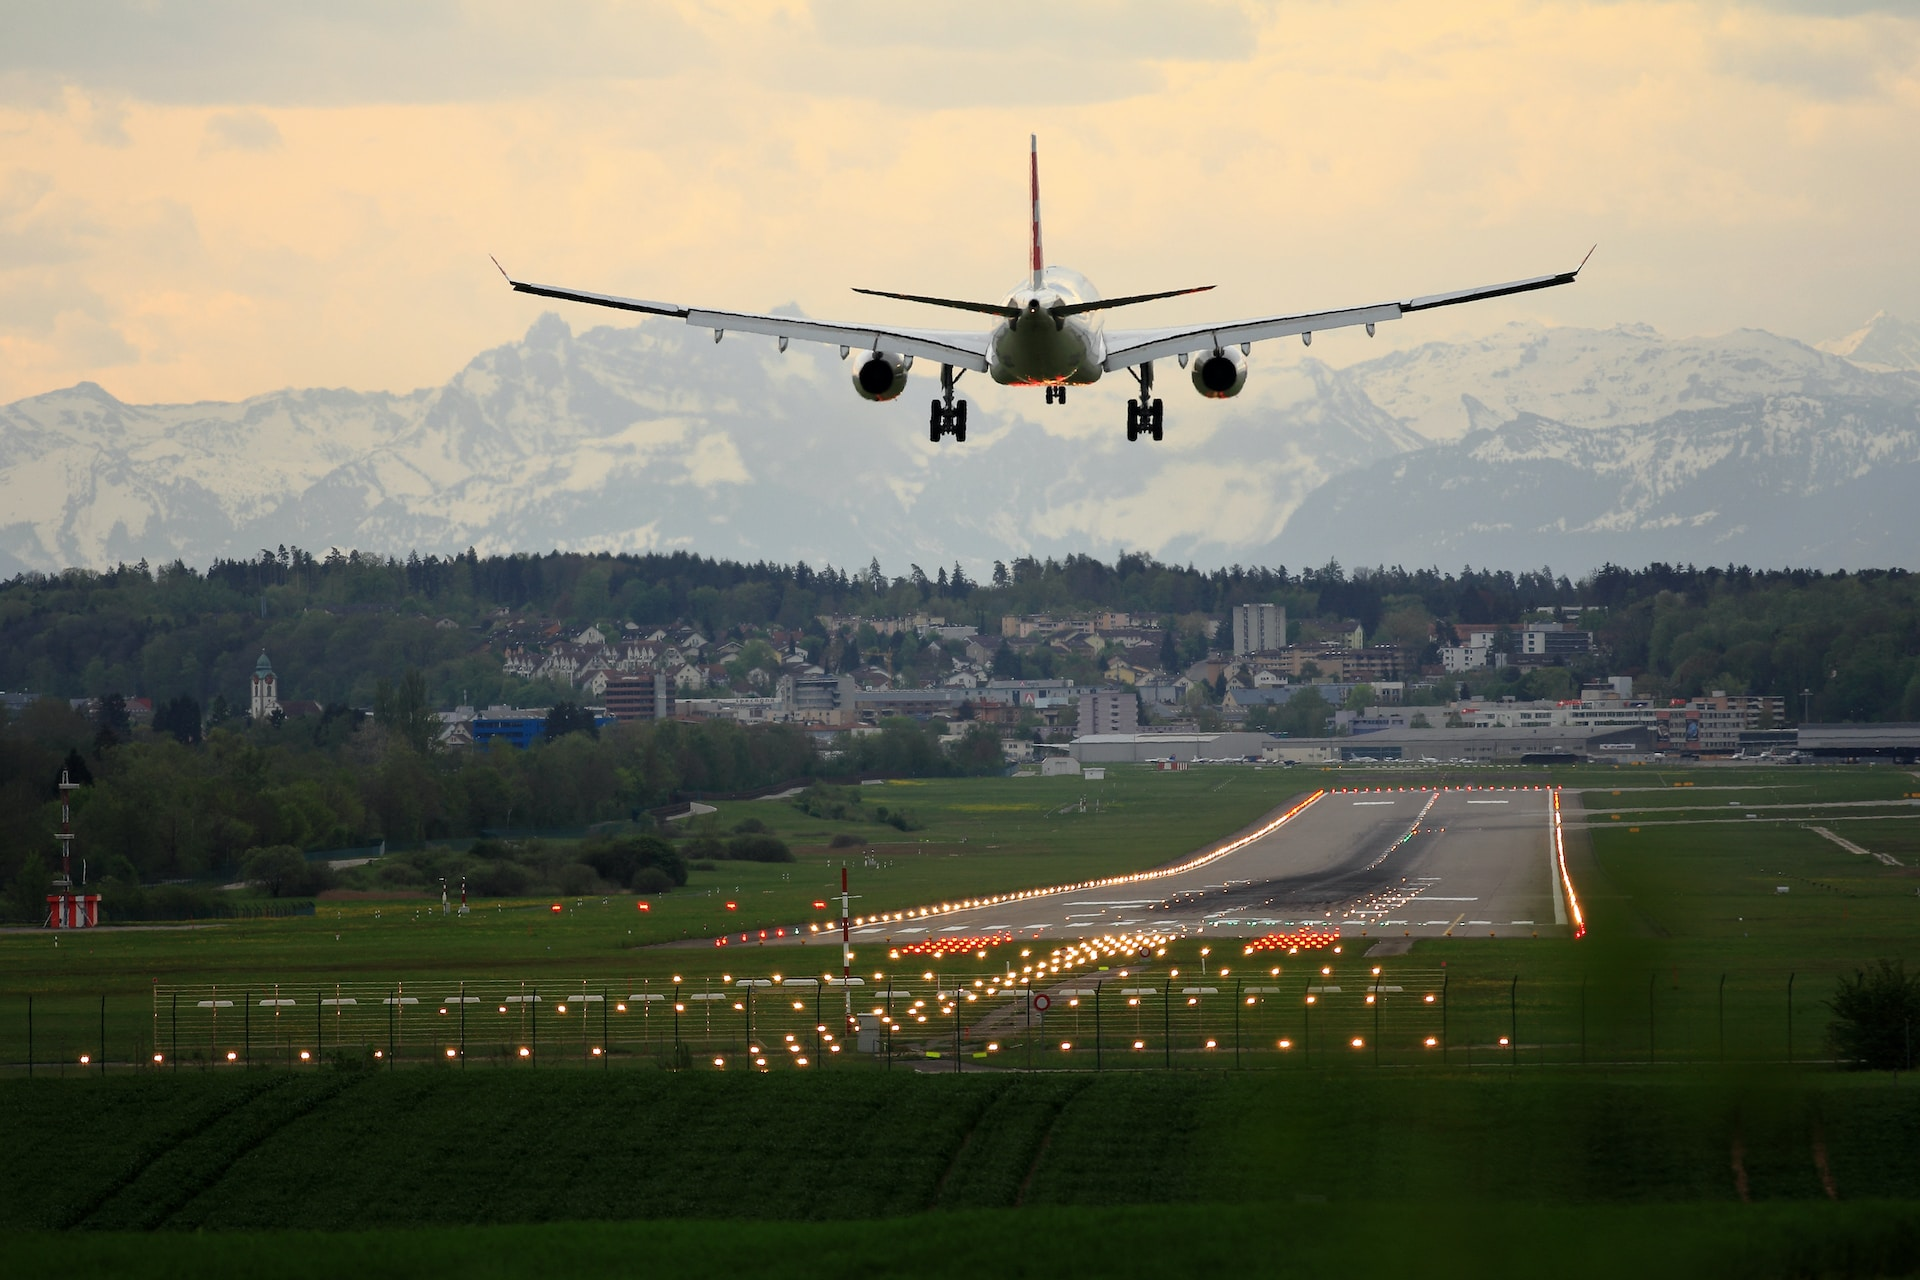
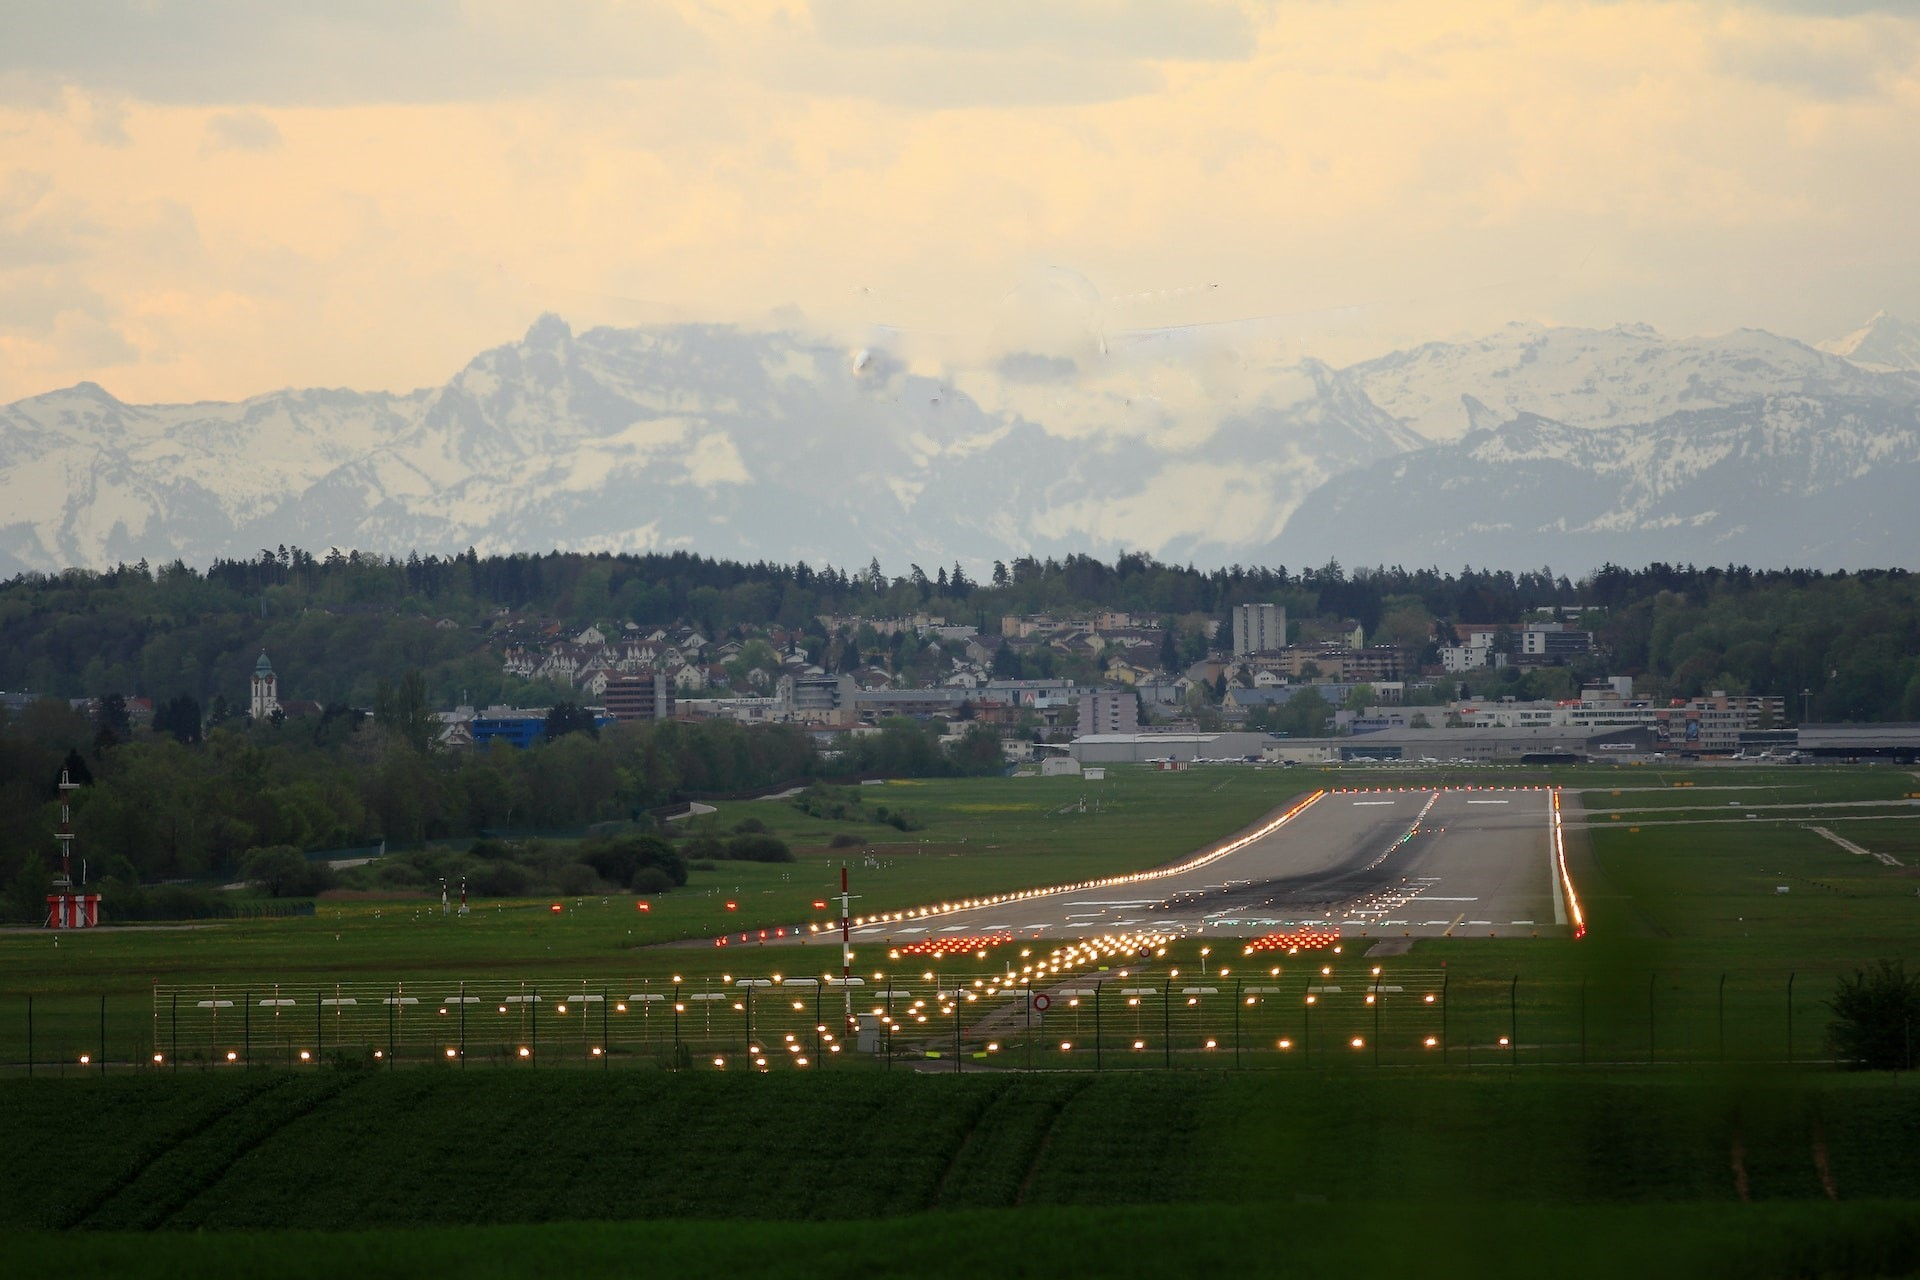
header parallax added

Changed region(s): [[0.25, 0.125, 0.8125, 0.3438]]

diff --git a/index.html b/index.html
@@ -20,6 +20,8 @@
       integrity="sha384-HwwvtgBNo3bZJJLYd8oVXjrBZt8cqVSpeBNS5n7C8IVInixGAoxmnlMuBnhbgrkm"
       crossorigin="anonymous"
     ></script>
+    
+    <script src="https://cdn.jsdelivr.net/npm/gsap@3.12.2/dist/gsap.min.js"></script>
     <script src="https://cdnjs.cloudflare.com/ajax/libs/gsap/2.1.3/TweenMax.min.js"></script>
     <script src="https://cdnjs.cloudflare.com/ajax/libs/ScrollMagic/2.0.7/ScrollMagic.min.js"></script>
     <script src="https://cdnjs.cloudflare.com/ajax/libs/ScrollMagic/2.0.7/plugins/animation.gsap.min.js"></script>
@@ -75,12 +77,15 @@
     </div>
 
     <!-- Header -->
-    <header id="header" class="jumbotron text-center text-white">
-      <h1>Welcome to Our Landing Page</h1>
-      <p>Fasten your seatbelts</p>
-      <a id="landingBtn" href="#section1" class="btn btn-primary"
-        >Prepare for landing</a
-      >
+    <header id="header" class="text-center text-white">
+        <img src="./images/plane.png" alt="landing plane">
+        <div>
+            <h1>Welcome to Our Landing Page</h1>
+            <p>Fasten your seatbelts</p>
+            <a id="landingBtn" href="#section1" class="btn btn-primary"
+              >Prepare for landing</a
+            >
+        </div>
     </header>
 
     <!-- Section 1 -->

diff --git a/script.js b/script.js
@@ -4,15 +4,36 @@ const controller = new ScrollMagic.Controller();
 
 navScene(controller);
 
+// section reveal
+// $('section').each(function () {
+//   const scene = new ScrollMagic.Scene({
+//     triggerElement: this,
+//   }).setClassToggle(this, 'fade-in')
+//     .addTo(controller)
 
-$('section').each(function() {
-  const scene = new ScrollMagic.Scene({
-    triggerElement: this,
-  }).addIndicators({
-    colorStart:'red',
-    colorEnd:'black',
-    colorTrigger: 'blue'
-  }).setClassToggle(this,'fade-in')
-  .addTo(controller)
+// })
 
-})
+//header parallax effect
+
+const parallaxPlane = new ScrollMagic.Scene({
+  triggerElement: '#header',
+  triggerHook: 0,
+  duration:'50%',
+}).addIndicators({
+  colorStart: 'red',
+  colorEnd: 'black',
+  colorTrigger: 'blue'
+}).setTween(TweenMax.to('#header img', 0.1, {y:"20%", x:"50%", ease:Power0.easeInOut}))
+  .addTo(controller);
+
+  const parallaxText = new ScrollMagic.Scene({
+  triggerElement: '#header',
+  triggerHook: 0,
+  duration:'50%',
+}).addIndicators({
+  colorStart: 'red',
+  colorEnd: 'black',
+  colorTrigger: 'blue'
+}).setTween(TweenMax.to('#header div', 0.1, {y:"-150%", ease:Power0.easeNone}))
+  .addTo(controller);
+

diff --git a/style.scss b/style.scss
@@ -3,19 +3,40 @@ html {
 }
 
 .navigation {
+    position: fixed;
   width: 100%;
     z-index: 10;
   nav {
     padding: 0.5rem 1rem;
+    z-index: 1;
   }
+
+
 }
 
 header {
-  background: linear-gradient(rgba(0, 0, 0, 0.2), rgba(0, 0, 0, 0.2)),
-    url("./images/hero.jpg");
-  background-size: cover;
-  background-position: center;
+  position: relative;
   height: 100vh;
+overflow: hidden;
+background: linear-gradient(rgba(0, 0, 0, 0.1), rgba(0, 0, 0, 0.2)),
+    url("./images/hero.jpg");
+    background-size: cover;
+    background-position: center;
+  img {
+    position: absolute;
+    top: -20%;
+    left: 20%;
+
+    filter: blur(0.2px);
+    max-width: 30rem;
+    height: 140%;
+  }
+
+  div {
+    padding-top: 5rem;
+    position: relative;
+    z-index: 2;
+  }
 }
 
 section {

diff --git a/style.css b/style.css
@@ -3,18 +3,35 @@ html {
 }
 
 .navigation {
+  position: fixed;
   width: 100%;
   z-index: 10;
 }
 .navigation nav {
   padding: 0.5rem 1rem;
+  z-index: 1;
 }
 
 header {
-  background: linear-gradient(rgba(0, 0, 0, 0.2), rgba(0, 0, 0, 0.2)), url("./images/hero.jpg");
+  position: relative;
+  height: 100vh;
+  overflow: hidden;
+  background: linear-gradient(rgba(0, 0, 0, 0.1), rgba(0, 0, 0, 0.2)), url("./images/hero.jpg");
   background-size: cover;
   background-position: center;
-  height: 100vh;
+}
+header img {
+  position: absolute;
+  top: -20%;
+  left: 20%;
+  filter: blur(0.2px);
+  max-width: 30rem;
+  height: 140%;
+}
+header div {
+  padding-top: 5rem;
+  position: relative;
+  z-index: 2;
 }
 
 section {

diff --git a/src/navScene.js b/src/navScene.js
@@ -7,10 +7,9 @@ const navScene = new ScrollMagic.Scene({
   
   navScene.on("enter", function (event) {
     $('.navigation').css({
-      position: 'fixed',
       'background-color': generateRGB(),
       top: 0,
-      opacity: 0.9,
+      opacity: 0.8,
     })
   });
   
@@ -24,7 +23,7 @@ const navScene = new ScrollMagic.Scene({
   
   navScene.on("leave", function (event) {
     $('.navigation').css({
-      position: 'relative',
+      opacity: 1,
     })
   });
   
